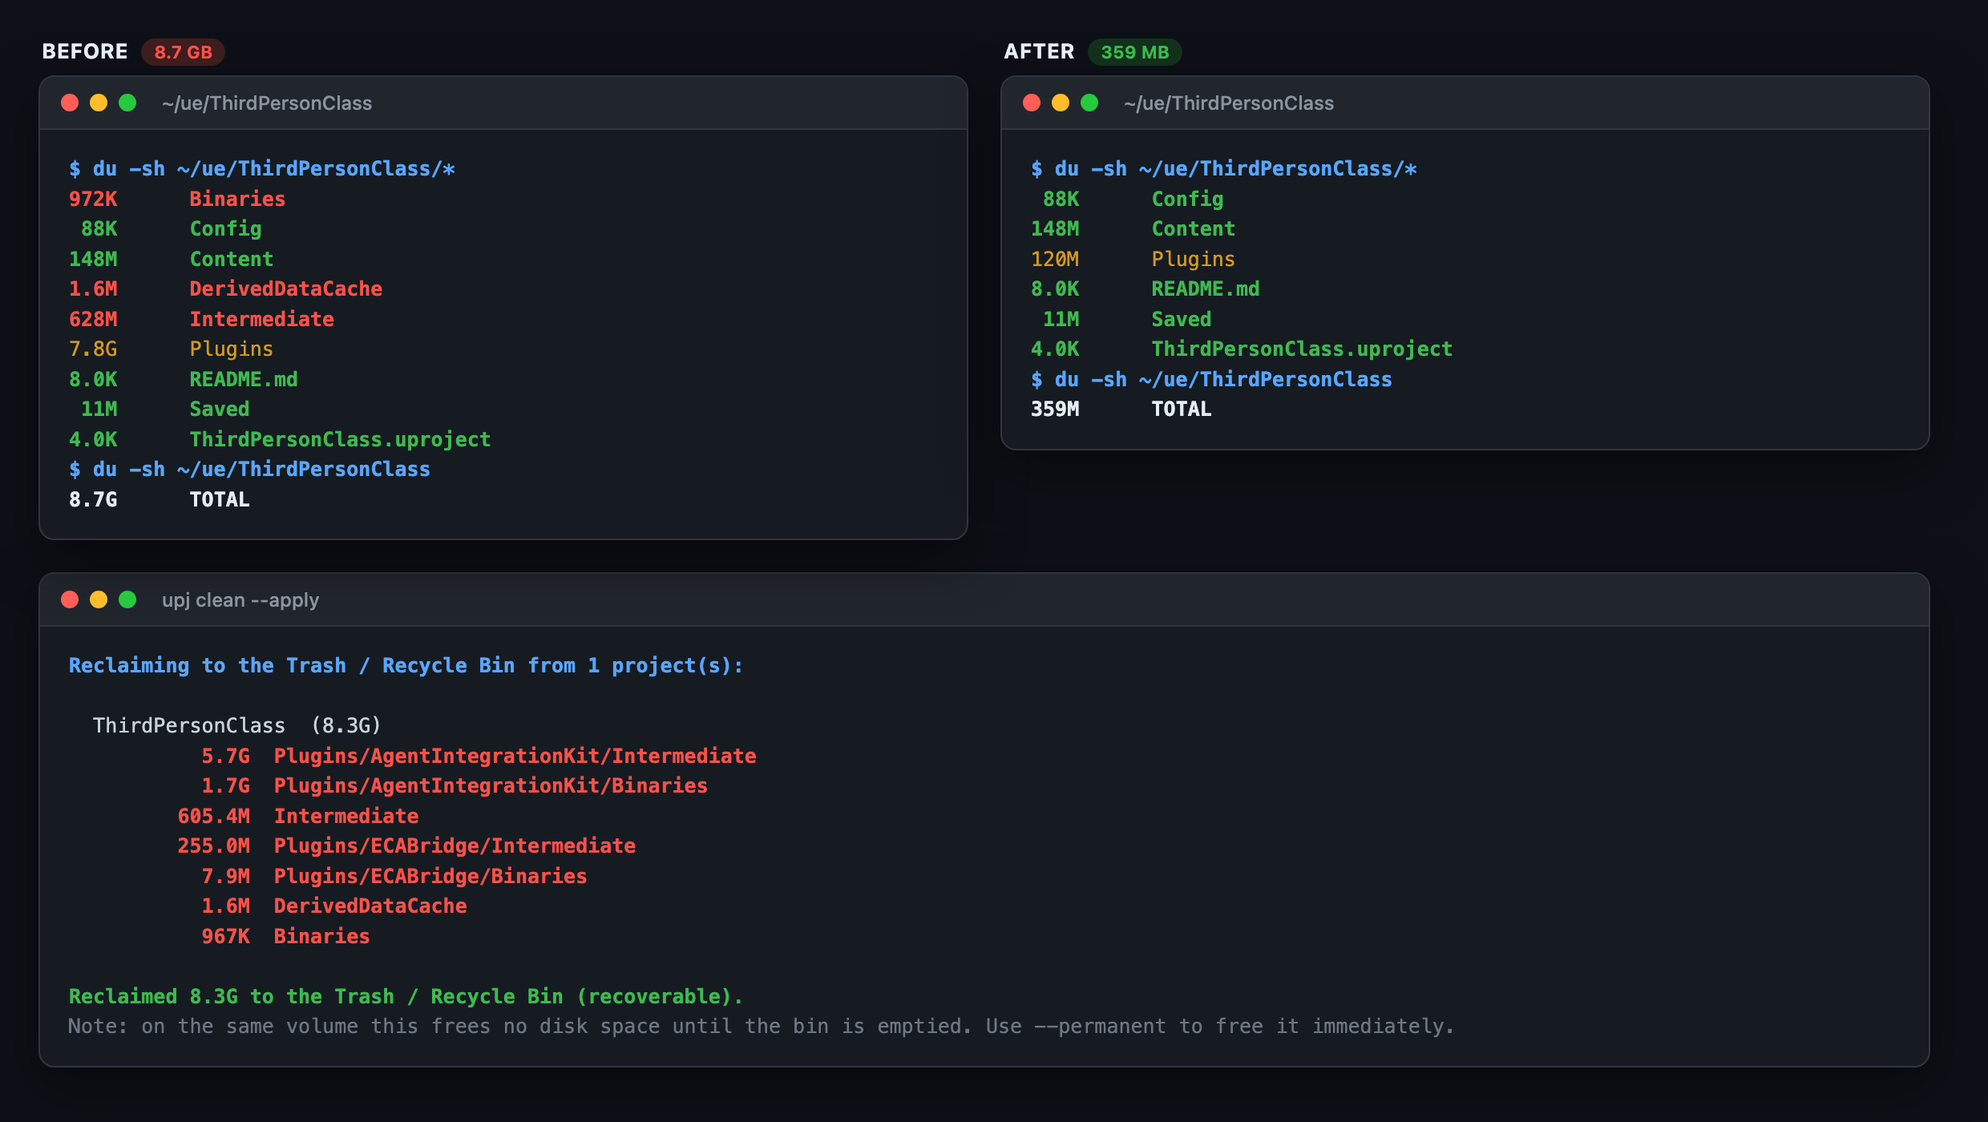
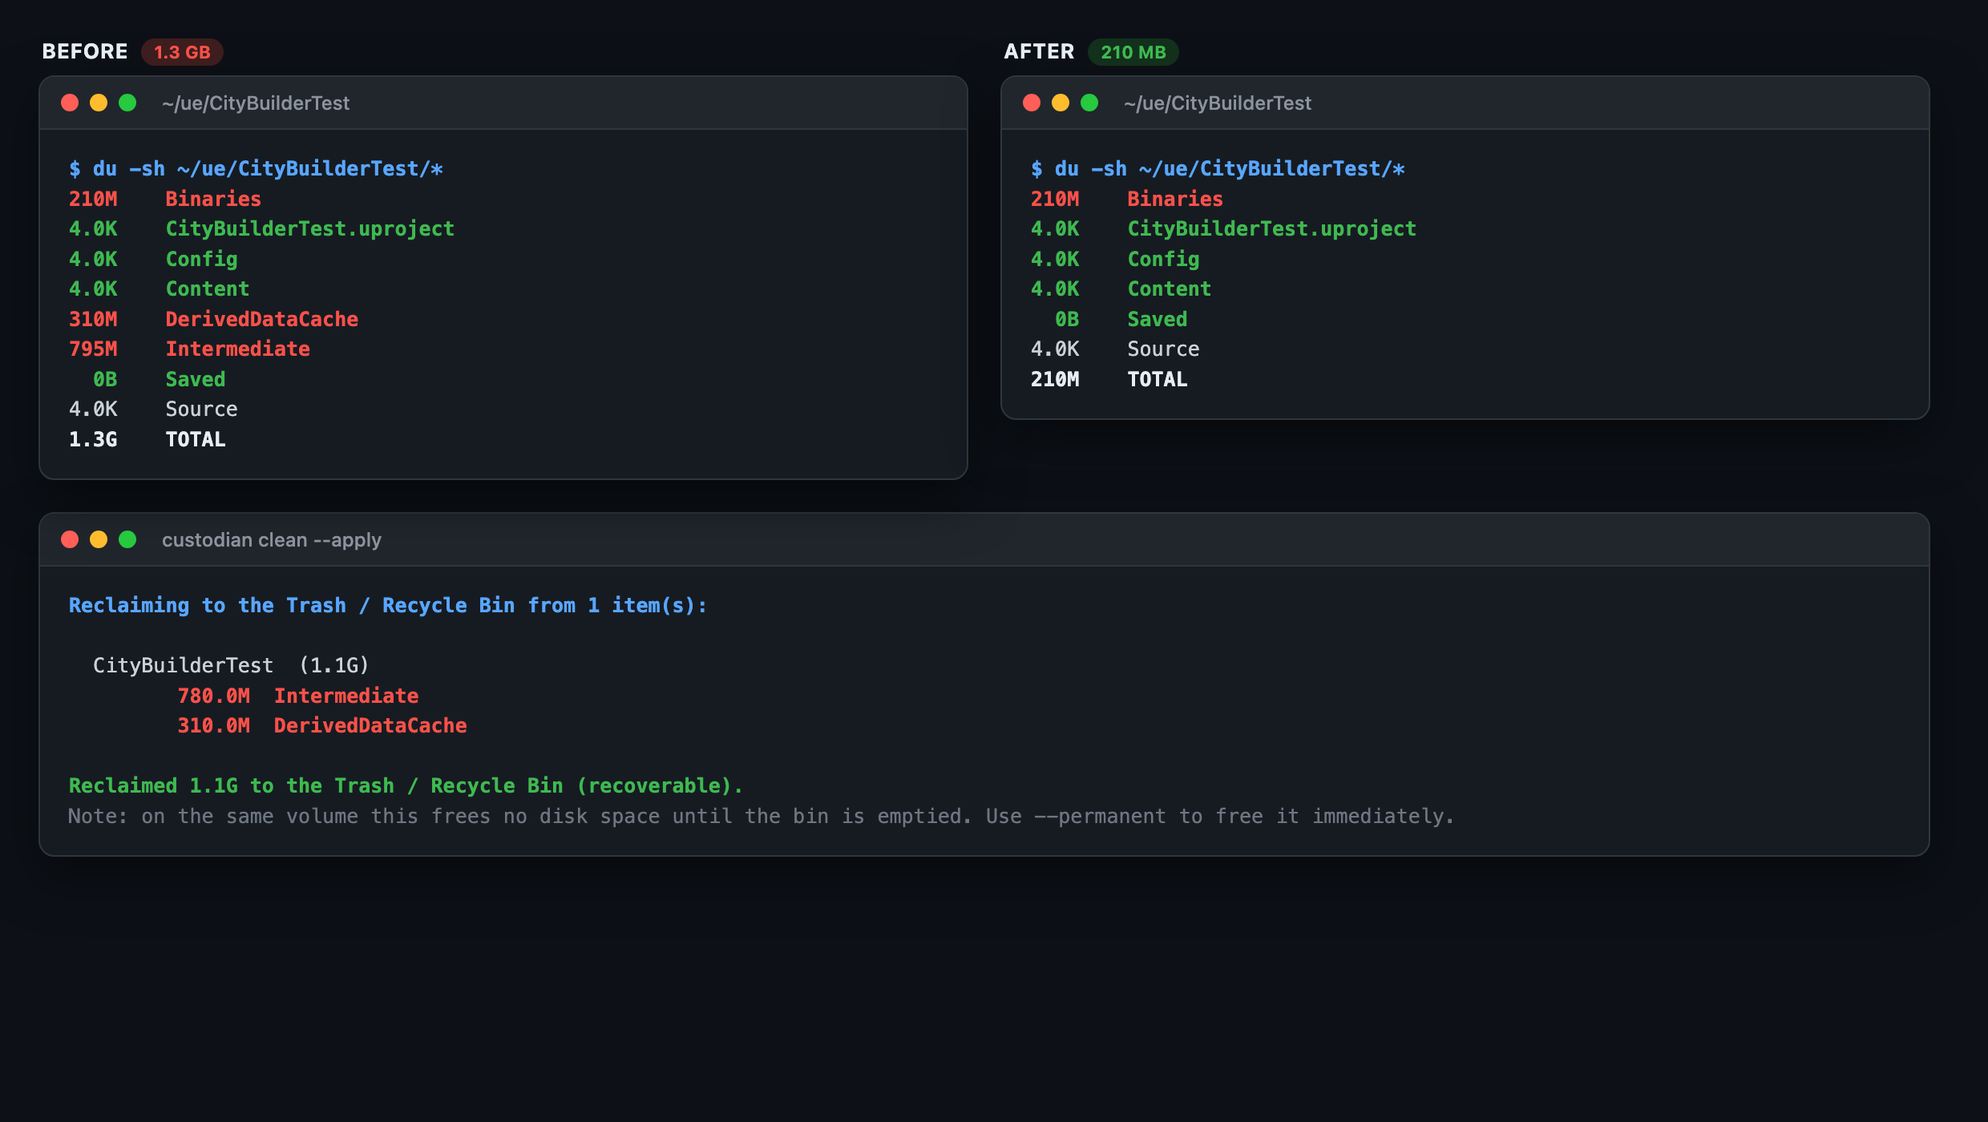
fix: strip real project names from public screenshots
report.png, before-after.png, and gui.png all showed real project
names/paths, including one referencing a proprietary plugin that must
never appear in a public asset. Replace all three with a synthetic
12-project demo tree (docs/media/build_demo_data.sh) so future
screenshot regeneration never touches real data by construction.

Add CUSTODIAN_PROJECT_SCAN_ROOT to scope *project* discovery to one
directory tree for exactly this case -- engine discovery is
deliberately left unscoped so real installed engines still show.
macOS (mdfind) only for now; Windows es.exe left unscoped rather than
guessing an untested flag.

diff --git a/docs/media/report.html b/docs/media/report.html
@@ -14,33 +14,35 @@ pre{margin:0;padding:15px 18px;color:#c9d1d9;font-family:'SF Mono',Menlo,Consola
 h3{color:#e6edf3;font-size:13px;margin:0 0 8px 2px;letter-spacing:.4px;text-transform:uppercase}
 h3 .tag{font-size:11px;padding:2px 8px;border-radius:10px;margin-left:8px;text-transform:none;letter-spacing:0}
 .tb{background:#3d1d1d;color:#f85149}.ta{background:#12301c;color:#3fb950}
-</style><div style='width:1180px'><div class="win"><div class="bar"><span class="dot" style="background:#ff5f56"></span><span class="dot" style="background:#ffbd2e"></span><span class="dot" style="background:#27c93f"></span><span class="t">upj report</span></div><pre><span class="b">Found 2 engine install(s), 96 project(s).</span>
+</style><div style='width:1180px'><div class="win"><div class="bar"><span class="dot" style="background:#ff5f56"></span><span class="dot" style="background:#ffbd2e"></span><span class="dot" style="background:#27c93f"></span><span class="t">custodian report</span></div><pre><span class="b">Found 2 engine install(s), 12 project(s).</span>
 <span class="b">  UE 5.8.1     /Users/Shared/Epic Games/UE_5.8</span>
 <span class="b">  UE 5.6.1     /Users/Shared/GH/UnrealEngineVisionOS</span>
 <span class="b">Measuring... (directory sizing is the slow part)</span>
 
 <span class="d">PROJECT                                  RECLAIM      AGE  KIND  NOTES</span>
 <span class="d">----------------------------------------------------------------------</span>
-FSLA_SPH_56                                31.7G       3d  <span class='w'>BP  </span><span class='d'>  too recent (&lt;14d)</span>
-GH/My_Project                              17.1G       6d  <span class='w'>C++  </span><span class='d'> too recent (&lt;14d); Binaries kept (C++ rebuild cost); skipped Intermediate (symlink resolves outside the project)</span>
-ACCVR24                                     6.2G      41d  <span class='w'>C++  </span><span class='d'> Binaries kept (C++ rebuild cost)</span>
-GH/URKLiveLinkDemo                          3.7G       0d  <span class='w'>BP  </span><span class='d'>  too recent (&lt;14d)</span>
-ecab57                                      3.6G      39d  <span class='w'>C++  </span><span class='d'> Binaries kept (C++ rebuild cost)</span>
-MindTheGap_56                               2.8G     365d  BP    
-GASP57                                      2.2G     111d  BP    
-GameAnimationSample_5.7/GameAnimationS      1.4G     148d  BP    
-GH/VisionProTemplate                        1.3G      57d  BP    
-GH/VisionProTemplate                      952.2M      52d  <span class='w'>C++  </span><span class='d'> Binaries kept (C++ rebuild cost)</span>
-ue/vr57                                   792.2M      29d  BP    
-ECABridge-Build-5.7-skeletal/HostProje    708.7M        -  <span class='w'>BP  </span><span class='d'>  too recent (&lt;14d)</span>
-fp57                                      640.0M     317d  BP    
-MCP58_test1                               594.2M      38d  BP    
-ue/VisionProTemplate                      478.9M      60d  BP    
-GH/URKLiveLinkDemo                        393.5M       9d  <span class='w'>BP  </span><span class='d'>  too recent (&lt;14d)</span>
-VisionHack_55                             348.6M     170d  BP    
-ue/HalcyonVR                              326.4M     423d  BP    
-ue/VisionProTemplate                      301.7M     170d  BP    
-<span class="g">TOTAL RECLAIMABLE: 77.2G</span>
-<span class="y">FREE ON THIS VOLUME: 59.8G</span>
+OpenWorldDemo                               6.5G      85d  <span class='w'>C++  </span><span class='d'> Binaries kept (C++ rebuild cost)</span>
+SciFiCorridor                               4.1G      62d  <span class='w'>C++  </span><span class='d'> Binaries kept (C++ rebuild cost)</span>
+MetaHumanShowcase                           3.9G      33d  BP    
+HorrorEscapeRoom                            2.5G      54d  <span class='w'>C++  </span><span class='d'> Binaries kept (C++ rebuild cost)</span>
+FlightSimShowcase                           2.1G       3d  <span class='w'>BP  </span><span class='d'>  too recent (&lt;14d)</span>
+RacingPrototype                             1.5G      48d  BP    
+CityBuilderTest                             1.1G      41d  <span class='w'>C++  </span><span class='d'> Binaries kept (C++ rebuild cost)</span>
+VRTrainingSim                             830.0M      71d  <span class='w'>C++  </span><span class='d'> Binaries kept (C++ rebuild cost)</span>
+PuzzleAdventure                           200.0M      22d  BP    
+PlatformerPrototype                       125.0M      19d  BP    
+ArchVizWalkthrough                            0B      90d  <span class='w'>C++  </span><span class='d'> Binaries kept (C++ rebuild cost)</span>
+RoboticsSimulator                             0B     120d  BP    
 
-<span class="d">Nothing was deleted. `upj clean` shows what a cleanup would remove.</span></pre></div></div>
+ENGINE INSTALLS
+<span class="d">----------------------------------------------------------------------</span>
+<span class="b">  UE 5.8.1 (installed)       2.9G reclaimable   /Users/Shared/Epic Games/UE_5.8</span>
+           2.9G  Engine/DerivedDataCache          re-derived on next editor start (slow first load)
+<span class="b">  UE 5.6.1 (source)     304.3M reclaimable   /Users/Shared/GH/UnrealEngineVisionOS</span>
+         296.1M  Engine/DerivedDataCache          re-derived on next editor start (slow first load)
+           8.2M  Engine/Saved/Crashes             none
+
+<span class="g">TOTAL RECLAIMABLE: 26.0G</span>
+<span class="y">FREE ON THIS VOLUME: 113.1G</span>
+
+<span class="d">Nothing was deleted. `custodian clean` shows what a cleanup would remove.</span></pre></div></div>

diff --git a/docs/media/before-after.html b/docs/media/before-after.html
@@ -14,36 +14,27 @@ pre{margin:0;padding:15px 18px;color:#c9d1d9;font-family:'SF Mono',Menlo,Consola
 h3{color:#e6edf3;font-size:13px;margin:0 0 8px 2px;letter-spacing:.4px;text-transform:uppercase}
 h3 .tag{font-size:11px;padding:2px 8px;border-radius:10px;margin-left:8px;text-transform:none;letter-spacing:0}
 .tb{background:#3d1d1d;color:#f85149}.ta{background:#12301c;color:#3fb950}
-</style><div style='width:1180px'><div class="row"><div><h3>Before<span class="tag tb">8.7 GB</span></h3><div class="win"><div class="bar"><span class="dot" style="background:#ff5f56"></span><span class="dot" style="background:#ffbd2e"></span><span class="dot" style="background:#27c93f"></span><span class="t">~/ue/ThirdPersonClass</span></div><pre><span class="b">$ du -sh ~/ue/ThirdPersonClass/*</span>
-<span class="r">972K	  Binaries</span>
-<span class="g"> 88K	  Config</span>
-<span class="g">148M	  Content</span>
-<span class="r">1.6M	  DerivedDataCache</span>
-<span class="r">628M	  Intermediate</span>
-<span class="y">7.8G	  Plugins</span>
-<span class="g">8.0K	  README.md</span>
-<span class="g"> 11M	  Saved</span>
-<span class="g">4.0K	  ThirdPersonClass.uproject</span>
-<span class="b">$ du -sh ~/ue/ThirdPersonClass</span>
-<span class="w">8.7G	  TOTAL</span></pre></div></div><div><h3>After<span class="tag ta">359 MB</span></h3><div class="win"><div class="bar"><span class="dot" style="background:#ff5f56"></span><span class="dot" style="background:#ffbd2e"></span><span class="dot" style="background:#27c93f"></span><span class="t">~/ue/ThirdPersonClass</span></div><pre><span class="b">$ du -sh ~/ue/ThirdPersonClass/*</span>
-<span class="g"> 88K	  Config</span>
-<span class="g">148M	  Content</span>
-<span class="y">120M	  Plugins</span>
-<span class="g">8.0K	  README.md</span>
-<span class="g"> 11M	  Saved</span>
-<span class="g">4.0K	  ThirdPersonClass.uproject</span>
-<span class="b">$ du -sh ~/ue/ThirdPersonClass</span>
-<span class="w">359M	  TOTAL</span></pre></div></div></div><div class="win"><div class="bar"><span class="dot" style="background:#ff5f56"></span><span class="dot" style="background:#ffbd2e"></span><span class="dot" style="background:#27c93f"></span><span class="t">upj clean --apply</span></div><pre>
-<span class="b">Reclaiming to the Trash / Recycle Bin from 1 project(s):</span>
+</style><div style='width:1180px'><div class="row"><div><h3>Before<span class="tag tb">1.3 GB</span></h3><div class="win"><div class="bar"><span class="dot" style="background:#ff5f56"></span><span class="dot" style="background:#ffbd2e"></span><span class="dot" style="background:#27c93f"></span><span class="t">~/ue/CityBuilderTest</span></div><pre><span class="b">$ du -sh ~/ue/CityBuilderTest/*</span>
+<span class="r">210M	Binaries</span>
+<span class="g">4.0K	CityBuilderTest.uproject</span>
+<span class="g">4.0K	Config</span>
+<span class="g">4.0K	Content</span>
+<span class="r">310M	DerivedDataCache</span>
+<span class="r">795M	Intermediate</span>
+<span class="g">  0B	Saved</span>
+4.0K	Source
+<span class="w">1.3G	TOTAL</span></pre></div></div><div><h3>After<span class="tag ta">210 MB</span></h3><div class="win"><div class="bar"><span class="dot" style="background:#ff5f56"></span><span class="dot" style="background:#ffbd2e"></span><span class="dot" style="background:#27c93f"></span><span class="t">~/ue/CityBuilderTest</span></div><pre><span class="b">$ du -sh ~/ue/CityBuilderTest/*</span>
+<span class="r">210M	Binaries</span>
+<span class="g">4.0K	CityBuilderTest.uproject</span>
+<span class="g">4.0K	Config</span>
+<span class="g">4.0K	Content</span>
+<span class="g">  0B	Saved</span>
+4.0K	Source
+<span class="w">210M	TOTAL</span></pre></div></div></div><div class="win"><div class="bar"><span class="dot" style="background:#ff5f56"></span><span class="dot" style="background:#ffbd2e"></span><span class="dot" style="background:#27c93f"></span><span class="t">custodian clean --apply</span></div><pre><span class="b">Reclaiming to the Trash / Recycle Bin from 1 item(s):</span>
 
-  ThirdPersonClass  (8.3G)
-<span class="r">           5.7G  Plugins/AgentIntegrationKit/Intermediate</span>
-<span class="r">           1.7G  Plugins/AgentIntegrationKit/Binaries</span>
-<span class="r">         605.4M  Intermediate</span>
-<span class="r">         255.0M  Plugins/ECABridge/Intermediate</span>
-<span class="r">           7.9M  Plugins/ECABridge/Binaries</span>
-<span class="r">           1.6M  DerivedDataCache</span>
-<span class="r">           967K  Binaries</span>
+  CityBuilderTest  (1.1G)
+<span class="r">         780.0M  Intermediate</span>
+<span class="r">         310.0M  DerivedDataCache</span>
 
-<span class="g">Reclaimed 8.3G to the Trash / Recycle Bin (recoverable).</span>
+<span class="g">Reclaimed 1.1G to the Trash / Recycle Bin (recoverable).</span>
 <span class="d">Note: on the same volume this frees no disk space until the bin is emptied. Use --permanent to free it immediately.</span></pre></div></div>

diff --git a/tests/test_discovery.py b/tests/test_discovery.py
@@ -42,7 +42,7 @@ def test_launcher_manifest_finds_engines_off_the_search_roots(
         encoding="utf-8",
     )
     monkeypatch.setattr(discovery, "_launcher_manifests", lambda: [manifest])
-    monkeypatch.setattr(discovery, "_index_search", lambda pattern: None)
+    monkeypatch.setattr(discovery, "_index_search", lambda pattern, **kwargs: None)
     monkeypatch.setattr(discovery, "_walk_search", lambda roots, suffix: [])
 
     installs = discovery.find_engine_installs(roots=[])
@@ -53,7 +53,7 @@ def test_source_built_engines_are_still_found_by_search(tmp_path: Path, monkeypa
     """The manifest only knows about launcher installs."""
     engine = make_engine(tmp_path / "SourceBuild", 5, 6)
     monkeypatch.setattr(discovery, "_launcher_manifests", lambda: [])
-    monkeypatch.setattr(discovery, "_index_search", lambda pattern: None)
+    monkeypatch.setattr(discovery, "_index_search", lambda pattern, **kwargs: None)
     monkeypatch.setattr(
         discovery,
         "_walk_search",
@@ -67,7 +67,7 @@ def test_a_missing_or_corrupt_manifest_is_not_fatal(tmp_path: Path, monkeypatch)
     bad = tmp_path / "LauncherInstalled.dat"
     bad.write_text("{not json", encoding="utf-8")
     monkeypatch.setattr(discovery, "_launcher_manifests", lambda: [bad, tmp_path / "nope.dat"])
-    monkeypatch.setattr(discovery, "_index_search", lambda pattern: None)
+    monkeypatch.setattr(discovery, "_index_search", lambda pattern, **kwargs: None)
     monkeypatch.setattr(discovery, "_walk_search", lambda roots, suffix: [])
     assert discovery.find_engine_installs(roots=[]) == []
 
@@ -85,7 +85,7 @@ def test_projects_inside_an_engine_install_are_excluded(tmp_path: Path, monkeypa
 
     monkeypatch.setattr(
         discovery, "_index_search",
-        lambda pattern: [template / "TP_Blank.uproject", mine / "MyGame.uproject"],
+        lambda pattern, **kwargs: [template / "TP_Blank.uproject", mine / "MyGame.uproject"],
     )
     projects = discovery.find_projects(
         engine_installs=[discovery.EngineInstall(root=engine, version="5.8.0")]
@@ -100,7 +100,7 @@ def test_a_path_returned_twice_is_one_project_not_zero(tmp_path: Path, monkeypat
     uproject = mine / "MyGame.uproject"
     uproject.write_text("{}", encoding="utf-8")
 
-    monkeypatch.setattr(discovery, "_index_search", lambda pattern: [uproject, uproject])
+    monkeypatch.setattr(discovery, "_index_search", lambda pattern, **kwargs: [uproject, uproject])
     projects = discovery.find_projects(engine_installs=[])
     assert len(projects) == 1
 
@@ -112,7 +112,7 @@ def test_a_project_folder_named_like_an_engine_is_kept(tmp_path: Path, monkeypat
     uproject = mine / "MyGame.uproject"
     uproject.write_text("{}", encoding="utf-8")
 
-    monkeypatch.setattr(discovery, "_index_search", lambda pattern: [uproject])
+    monkeypatch.setattr(discovery, "_index_search", lambda pattern, **kwargs: [uproject])
     assert [p.name for p in discovery.find_projects(engine_installs=[])] == ["MyGame"]
 
 
@@ -133,3 +133,46 @@ def test_walk_prunes_system_trees_and_caps_depth(tmp_path: Path) -> None:
     assert "MyGame.uproject" in found
     assert "Decoy.uproject" not in found  # pruned system tree
     assert "TooDeep.uproject" not in found  # past the depth cap
+
+
+def test_project_scan_root_override_scopes_the_project_search(
+    tmp_path: Path, monkeypatch
+) -> None:
+    """CUSTODIAN_PROJECT_SCAN_ROOT restricts *project* discovery to one tree --
+    used to isolate a demo/screenshot folder from everything else on a real
+    machine (real case: a plugin embedded across many real projects that must
+    never appear in a public screenshot, even indirectly via its path)."""
+    monkeypatch.setenv("CUSTODIAN_PROJECT_SCAN_ROOT", "/some/demo/folder")
+    seen = {}
+
+    def fake_index_search(pattern, **kwargs):
+        seen[pattern] = kwargs.get("scan_root")
+        return None
+
+    monkeypatch.setattr(discovery, "_index_search", fake_index_search)
+    monkeypatch.setattr(discovery, "_launcher_manifests", lambda: [])
+    monkeypatch.setattr(discovery, "_walk_search", lambda roots, suffix: [])
+
+    discovery.find_projects(roots=[], engine_installs=[])
+    assert seen["*.uproject"] == "/some/demo/folder"
+
+
+def test_engine_discovery_is_never_scoped_by_the_project_scan_root(
+    tmp_path: Path, monkeypatch
+) -> None:
+    """The override is deliberately project-only -- engine installs carry no
+    project-specific information worth isolating, and someone scoping a demo
+    folder still wants their real engines to show."""
+    monkeypatch.setenv("CUSTODIAN_PROJECT_SCAN_ROOT", "/some/demo/folder")
+    seen = {}
+
+    def fake_index_search(pattern, **kwargs):
+        seen[pattern] = kwargs.get("scan_root")
+        return None
+
+    monkeypatch.setattr(discovery, "_index_search", fake_index_search)
+    monkeypatch.setattr(discovery, "_launcher_manifests", lambda: [])
+    monkeypatch.setattr(discovery, "_walk_search", lambda roots, suffix: [])
+
+    discovery.find_engine_installs(roots=[])
+    assert seen["Build.version"] is None

diff --git a/custodian/discovery.py b/custodian/discovery.py
@@ -105,12 +105,32 @@ def _everything_exe() -> str | None:
     return str(local) if local.exists() else None
 
 
-def _index_search(pattern: str) -> list[Path] | None:
+def _scan_root_override() -> str | None:
+    """Restrict *project* discovery to one directory tree, if
+    CUSTODIAN_PROJECT_SCAN_ROOT is set.
+
+    Not a normal end-user setting -- for scoping a scan to a specific folder
+    (a demo/screenshot directory, a single project tree you want isolated
+    from everything else the index would otherwise return) without touching
+    anything else on the machine. Deliberately scoped to the *.uproject
+    search only, not engine discovery (Build.version) -- engine installs
+    carry no project-specific information worth isolating, and someone using
+    this to demo/screenshot one project tree still wants their real engines
+    to show.
+    """
+    return os.environ.get("CUSTODIAN_PROJECT_SCAN_ROOT") or None
+
+
+def _index_search(pattern: str, *, scan_root: str | None = None) -> list[Path] | None:
     """Query the OS file index. Returns None when no index is available."""
     if sys.platform == "darwin":
         # Spotlight. Note this silently skips volumes with indexing disabled,
         # which is why an empty result falls through to the walk.
-        out = _run(["mdfind", f"kMDItemFSName == '{pattern}'"])
+        cmd = ["mdfind"]
+        if scan_root:
+            cmd += ["-onlyin", scan_root]
+        cmd += [f"kMDItemFSName == '{pattern}'"]
+        out = _run(cmd)
         paths = [Path(line) for line in out.splitlines() if line.strip()]
         return paths or None
 
@@ -119,7 +139,10 @@ def _index_search(pattern: str) -> list[Path] | None:
         if not es:
             return None
         # Request only the full path so that names containing spaces cannot be
-        # mis-split by the caller.
+        # mis-split by the caller. CUSTODIAN_PROJECT_SCAN_ROOT is not wired up
+        # here -- unverified which es.exe flag scopes a search to one folder,
+        # and guessing wrong would silently return unscoped results for a
+        # feature whose whole point is scoping. macOS only for now.
         out = _run([es, pattern, "-full-path-and-name"])
         paths = [Path(line.strip()) for line in out.splitlines() if line.strip()]
         return paths or None
@@ -340,7 +363,7 @@ def find_projects(
         engine_installs = find_engine_installs(roots)
     engine_roots = [e.root for e in engine_installs]
 
-    found = _index_search("*.uproject")
+    found = _index_search("*.uproject", scan_root=_scan_root_override())
     if found is None:
         found = _walk_search(roots or default_roots(), ".uproject")
 

diff --git a/docs/media/_render.py b/docs/media/_render.py
@@ -7,6 +7,10 @@ The capture directory holds plain-text output from actual runs (hero.txt,
 folder_before.txt, folder_after.txt, apply.txt). Keeping this script in the
 repo means the screenshots can be regenerated rather than being undocumented
 one-off images that quietly go stale as the output format changes.
+
+Capture that plain-text output against build_demo_data.sh's synthetic
+project tree, not a real one -- these screenshots are public, and a real
+project can carry a plugin/name that shouldn't be visible outside the repo.
 """
 
 from __future__ import annotations
@@ -135,10 +139,10 @@ def main() -> None:
 
     before_after = (
         '<div class="row">'
-        f'<div><h3>Before<span class="tag tb">8.7 GB</span></h3>'
-        f'{win("~/ue/ThirdPersonClass", color_du(read("folder_before.txt")))}</div>'
-        f'<div><h3>After<span class="tag ta">359 MB</span></h3>'
-        f'{win("~/ue/ThirdPersonClass", color_du(read("folder_after.txt")))}</div>'
+        f'<div><h3>Before<span class="tag tb">1.3 GB</span></h3>'
+        f'{win("~/ue/CityBuilderTest", color_du(read("folder_before.txt")))}</div>'
+        f'<div><h3>After<span class="tag ta">210 MB</span></h3>'
+        f'{win("~/ue/CityBuilderTest", color_du(read("folder_after.txt")))}</div>'
         "</div>"
     ) + win("custodian clean --apply", color_apply(read("apply.txt")))
     shoot("before-after", before_after, 1240, 700)
